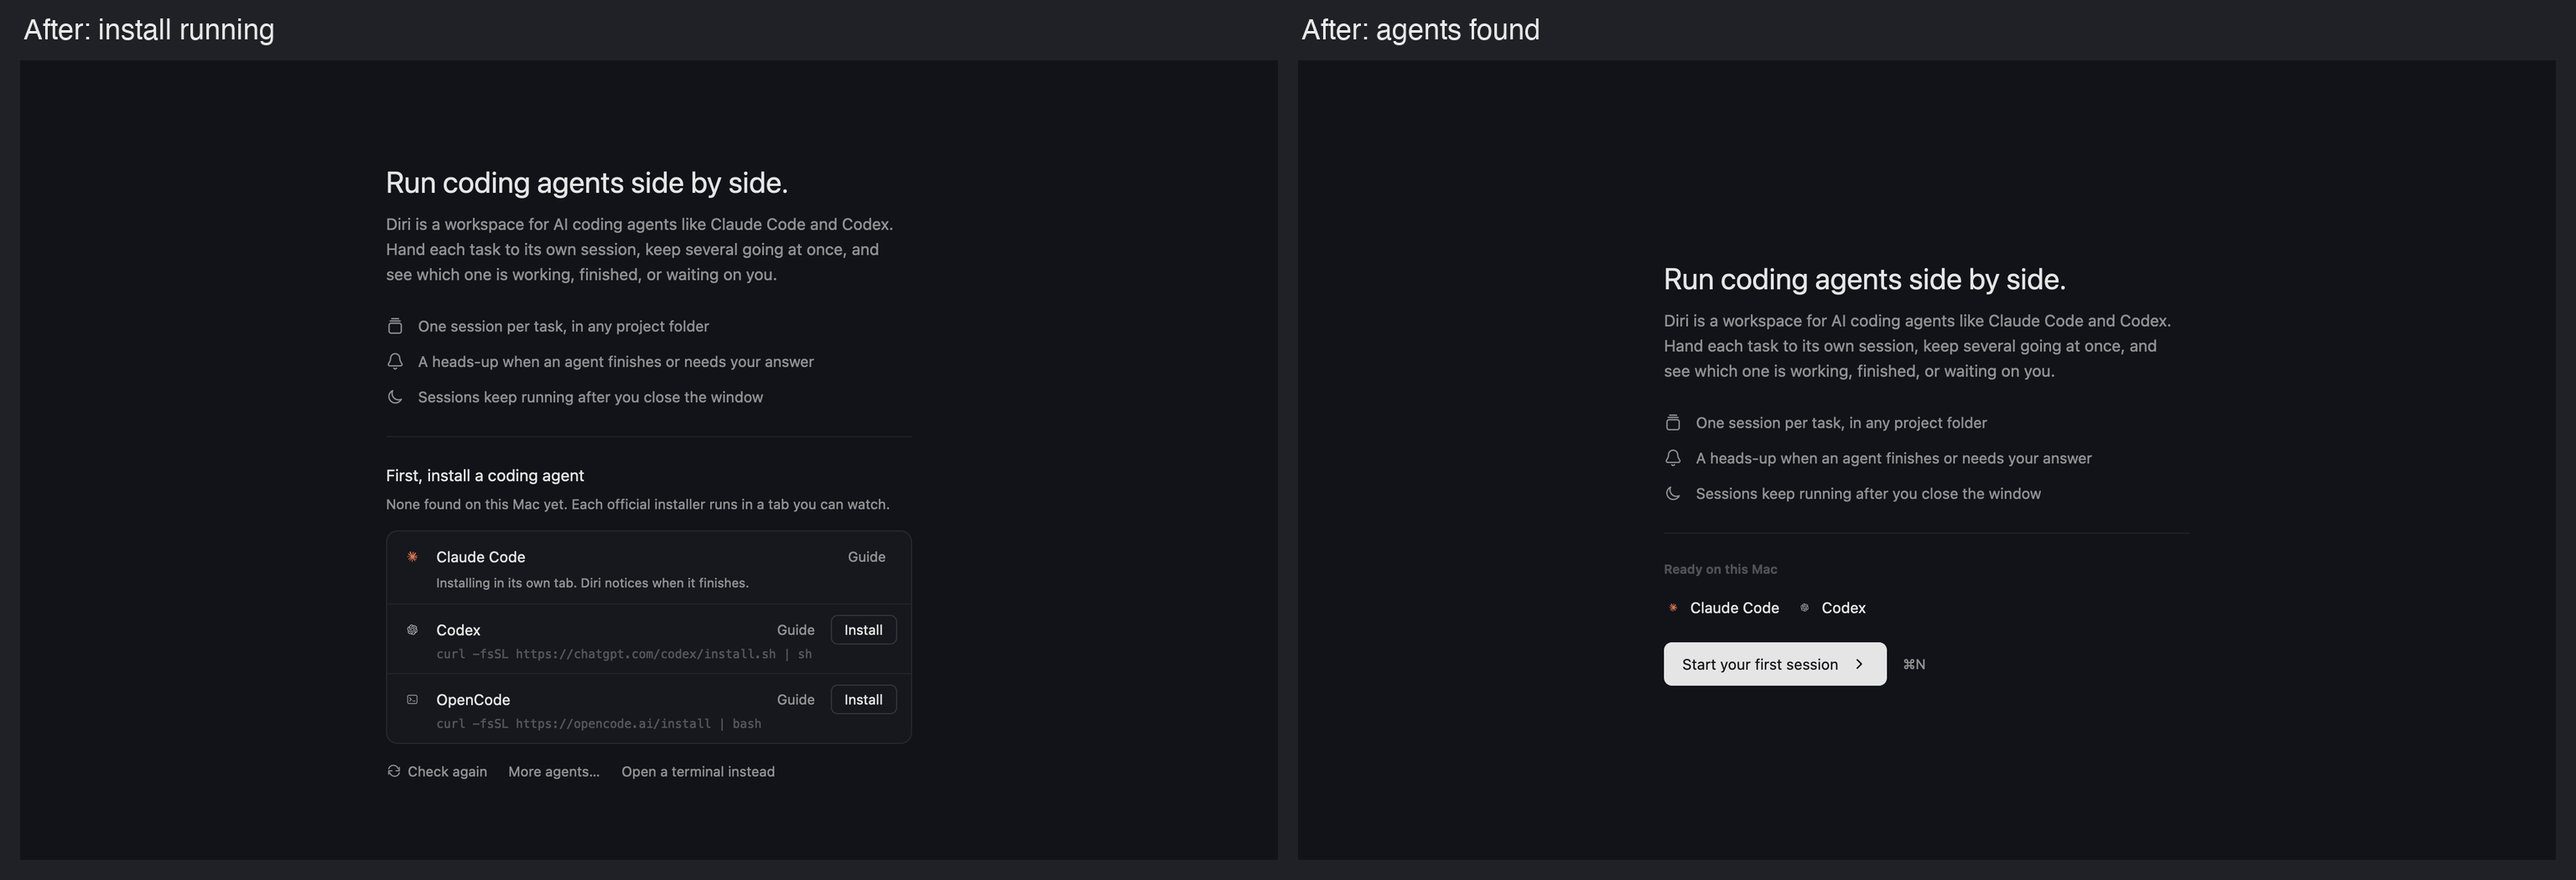
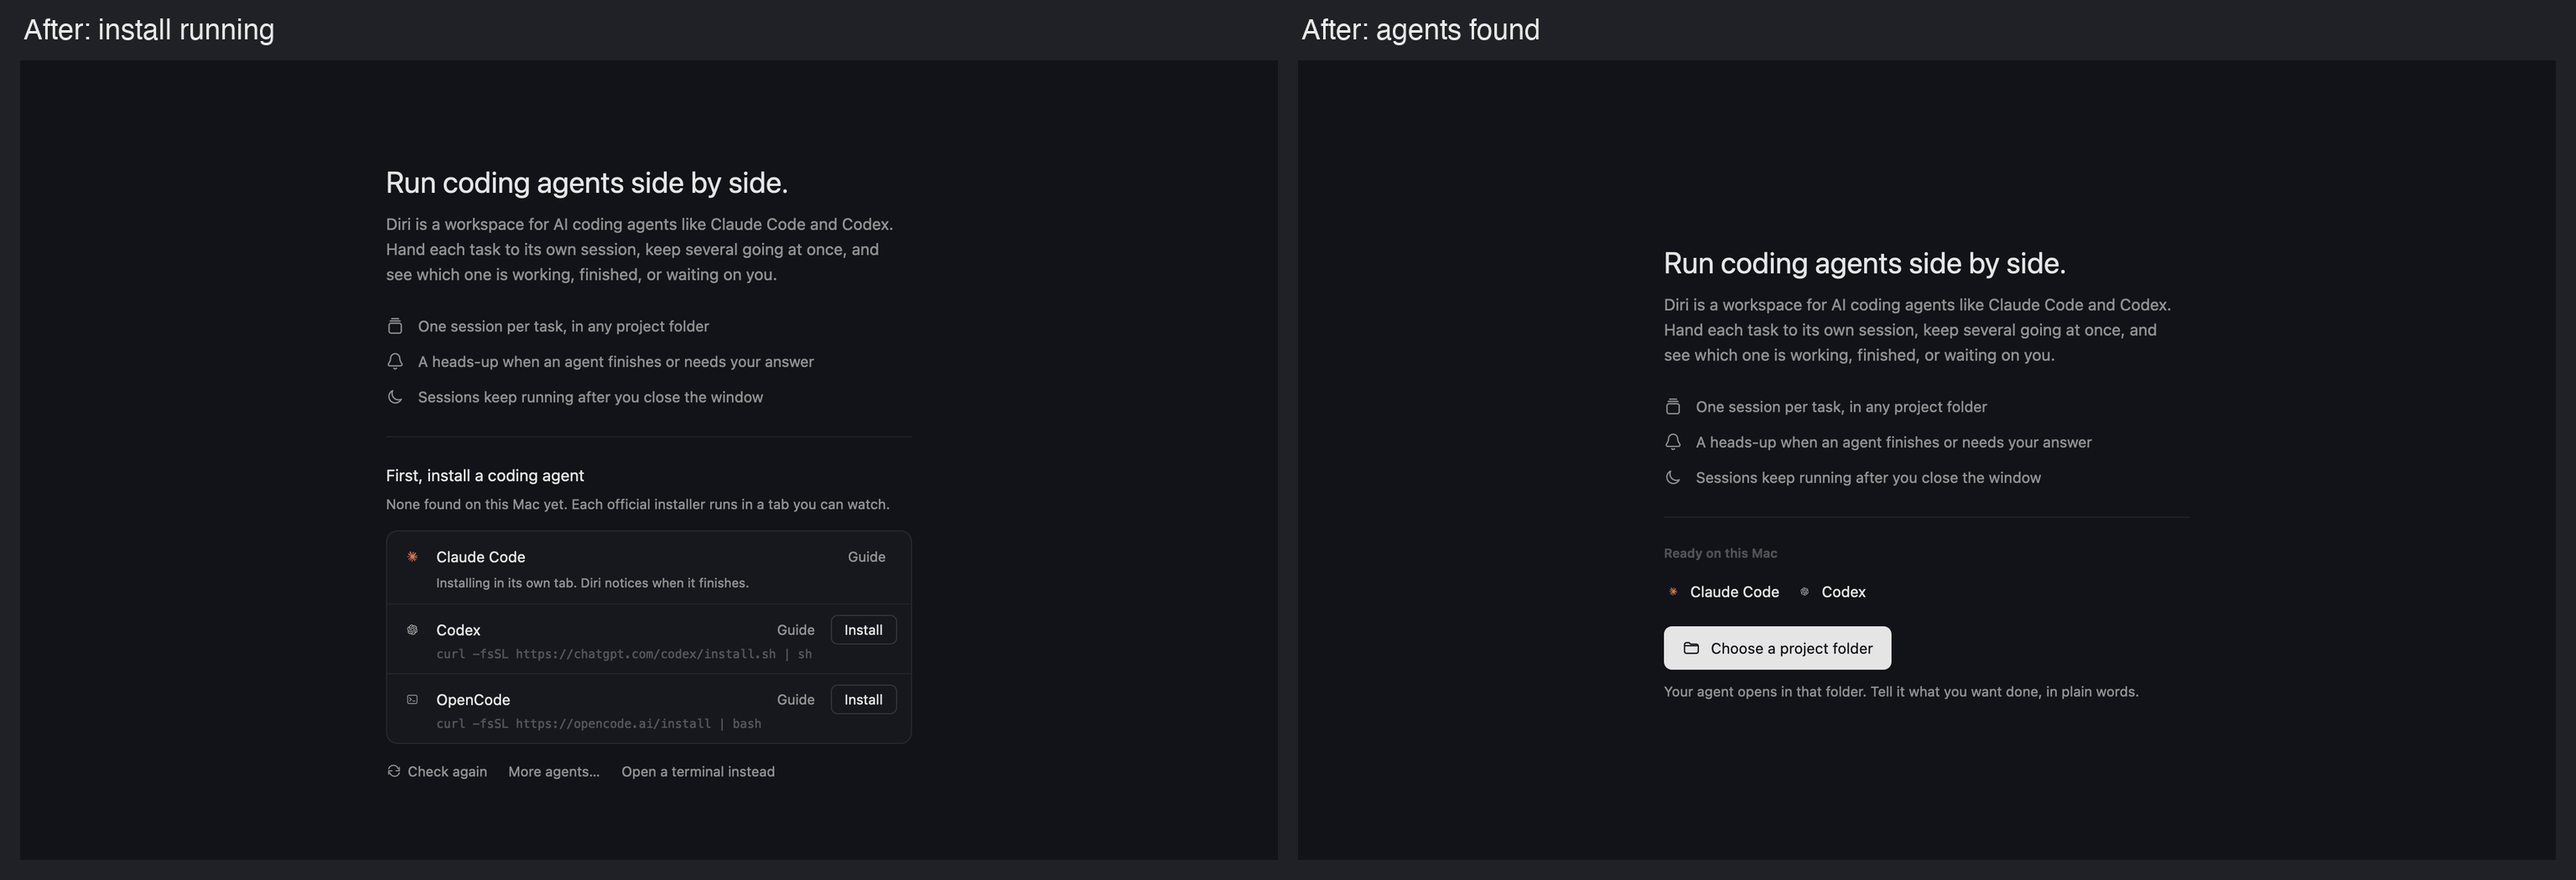
Start the first session without the launcher
The welcome and the resting page sent every start through the Cmd-N
launcher, which composes a task and injects it into the agent. The first
session should not depend on that. "Choose a project folder" now opens the
system folder picker and launches the default agent there, the same direct
launch as the New Agent shortcut, and the agent's own prompt takes the task.
The resting page leads with New session (Cmd-T) and "Open a terminal
instead" opens a terminal rather than the launcher's Terminal mode.

Changed region(s): [[0.625, 0.2743, 0.8438, 0.4267], [0.6562, 0.4571, 0.8125, 0.579], [0.625, 0.6095, 0.8125, 0.7924]]

diff --git a/diri/crates/diri-app/src/empty_workbench.rs b/diri/crates/diri-app/src/empty_workbench.rs
@@ -5,6 +5,10 @@
 //! "pick a coding agent installed on your computer" strands them, so the page
 //! reads detection facts and leads with whichever step is actually next:
 //! install an agent, or start a session.
+//!
+//! Starting is direct: choose a folder and the default agent opens in it, the
+//! same launch as the New Agent shortcut. The agent's own prompt is where the
+//! task gets typed, so nothing here composes or injects one.
 
 use std::rc::Rc;
 
@@ -15,7 +19,9 @@ use gpui::{Div, FontWeight, IntoElement, Role, div, prelude::*, px};
 use crate::agent_setup::{
     ActionHandler, AgentSetupState, InstallHandler, quiet_link, ready_line, setup_list,
 };
-use crate::commands::{CommandId, FocusSidebar, OpenLauncher, ShowAgentSettings, command};
+use crate::commands::{
+    CommandId, FocusSidebar, NewDefaultSession, NewTerminal, ShowAgentSettings, command,
+};
 use crate::icons::sf_symbol;
 
 pub(crate) struct EmptyWorkbench {
@@ -29,6 +35,8 @@ pub(crate) struct EmptyWorkbench {
 pub(crate) struct EmptyWorkbenchActions {
     pub install: InstallHandler,
     pub check_again: ActionHandler,
+    /// Pick a project folder, then open the default agent there.
+    pub start_in_folder: ActionHandler,
 }
 
 pub(crate) fn render(
@@ -37,7 +45,7 @@ pub(crate) fn render(
     colors: SemanticColors,
 ) -> impl IntoElement {
     let column = if state.has_sessions {
-        resting(colors)
+        resting(&actions, colors)
     } else {
         welcome(&state, &actions, colors)
     };
@@ -180,15 +188,11 @@ fn agents_section(
                 format!("Looking for coding agents on {machine}…"),
                 colors,
             ))
-            .child(start_button("Start a session", true, colors)),
+            .child(choose_folder(actions, colors)),
         AgentSetupState::Ready(ready) => section
             .child(eyebrow(format!("Ready on {machine}"), colors))
             .child(ready_line(ready, colors))
-            .child(
-                div()
-                    .pt(px(6.0))
-                    .child(start_button("Start your first session", true, colors)),
-            ),
+            .child(div().pt(px(6.0)).child(choose_folder(actions, colors))),
         AgentSetupState::Missing(candidates) => {
             let check_again = Rc::clone(&actions.check_again);
             section
@@ -251,14 +255,21 @@ fn agents_section(
                             "Open a terminal instead",
                             None,
                             colors,
-                            |window, cx| window.dispatch_action(Box::new(OpenLauncher), cx),
+                            |window, cx| window.dispatch_action(Box::new(NewTerminal), cx),
                         )),
                 )
         }
     }
 }
 
-fn start_button(label: &'static str, show_shortcut: bool, colors: SemanticColors) -> Div {
+/// The filled button a page leads with, and the shortcut that does the same.
+fn start_button(
+    label: &'static str,
+    symbol: &'static str,
+    shortcut: Option<CommandId>,
+    colors: SemanticColors,
+    on_click: ActionHandler,
+) -> Div {
     div()
         .flex()
         .items_center()
@@ -278,54 +289,88 @@ fn start_button(label: &'static str, show_shortcut: bool, colors: SemanticColors
                 .font_weight(FontWeight::MEDIUM)
                 .flex()
                 .items_center()
-                .gap(px(10.0))
+                .gap(px(9.0))
                 .cursor_pointer()
                 .hover(|button| button.opacity(0.88))
                 .active(|button| button.opacity(0.74))
-                .on_click(|_, window, cx| {
-                    window.dispatch_action(Box::new(OpenLauncher), cx);
-                })
-                .child(label)
-                .child(sf_symbol("chevron.right", 12.0, colors.background)),
+                .on_click(move |_, window, cx| on_click(window, cx))
+                .child(sf_symbol(symbol, 14.0, colors.background))
+                .child(label),
         )
-        .when(show_shortcut, |row| {
-            row.child(
-                div()
-                    .text_size(px(12.0))
-                    .text_color(colors.secondary)
-                    .child(
-                        command(CommandId::OpenLauncher)
-                            .shortcut_label()
-                            .unwrap_or_default(),
-                    ),
-            )
-        })
+        .when_some(
+            shortcut.and_then(|id| command(id).shortcut_label()),
+            |row, shortcut| {
+                row.child(
+                    div()
+                        .text_size(px(12.0))
+                        .text_color(colors.secondary)
+                        .child(shortcut),
+                )
+            },
+        )
+}
+
+/// Choosing the folder is the whole first step: the agent opens there.
+fn choose_folder(actions: &EmptyWorkbenchActions, colors: SemanticColors) -> Div {
+    div()
+        .flex()
+        .flex_col()
+        .gap(px(10.0))
+        .child(start_button(
+            "Choose a project folder",
+            "folder",
+            None,
+            colors,
+            Rc::clone(&actions.start_in_folder),
+        ))
+        .child(
+            div()
+                .text_size(px(12.0))
+                .line_height(px(18.0))
+                .text_color(colors.secondary)
+                .child(
+                    "Your agent opens in that folder. Tell it what you want done, in plain words.",
+                ),
+        )
 }
 
 /// Sessions exist but none is open in this pane.
-fn resting(colors: SemanticColors) -> Div {
+fn resting(actions: &EmptyWorkbenchActions, colors: SemanticColors) -> Div {
+    let start_in_folder = Rc::clone(&actions.start_in_folder);
     column()
         .gap(px(24.0))
         .child(mark())
         .child(headline(
             "Ready for your next task?",
-            "Pick up a session from the sidebar, or start something new.",
+            "Pick up a session from the sidebar, or start a new one.",
             colors,
         ))
-        .child(start_button("Start a session", true, colors))
+        .child(start_button(
+            "New session",
+            "plus",
+            Some(CommandId::NewDefaultSession),
+            colors,
+            Rc::new(|window, cx| window.dispatch_action(Box::new(NewDefaultSession), cx)),
+        ))
         .child(
             div()
-                .id("empty-browse-sessions")
-                .role(Role::Button)
-                .aria_label("Show sessions")
-                .py(px(6.0))
-                .text_size(px(13.0))
-                .text_color(colors.secondary)
-                .cursor_pointer()
-                .hover(move |button| button.text_color(colors.primary))
-                .on_click(|_, window, cx| {
-                    window.dispatch_action(Box::new(FocusSidebar), cx);
-                })
-                .child("Show sessions in the sidebar"),
+                .flex()
+                .flex_wrap()
+                .items_center()
+                .gap(px(18.0))
+                .child(quiet_link(
+                    "empty-start-in-folder",
+                    "Start in another folder…",
+                    None,
+                    colors,
+                    move |window, cx| start_in_folder(window, cx),
+                ))
+                .child(quiet_link(
+                    "empty-browse-sessions",
+                    "Show sessions in the sidebar",
+                    None,
+                    colors,
+                    |window, cx| window.dispatch_action(Box::new(FocusSidebar), cx),
+                )),
         )
 }

diff --git a/diri/crates/diri-app/src/terminal_pane.rs b/diri/crates/diri-app/src/terminal_pane.rs
@@ -1759,11 +1759,52 @@ impl TerminalPane {
                 .request_agent_catalog(None, true);
             cx.refresh_windows();
         });
+        // A direct launch, the same one the New Agent shortcut performs: the
+        // agent's own prompt takes the task, so there is nothing to compose
+        // or inject on the way in.
+        let canonical = Arc::clone(&self.runtime.store);
+        let window_store = self.window_store.clone();
+        let start_in_folder: crate::agent_setup::ActionHandler = Rc::new(move |_, cx| {
+            let paths = cx.prompt_for_paths(gpui::PathPromptOptions {
+                files: false,
+                directories: true,
+                multiple: false,
+                prompt: Some("Start Here".into()),
+            });
+            let canonical = Arc::clone(&canonical);
+            let window_store = window_store.clone();
+            cx.spawn(async move |cx| {
+                let Ok(Ok(Some(mut paths))) = paths.await else {
+                    return;
+                };
+                let Some(path) = paths.pop() else {
+                    return;
+                };
+                let options = crate::store::SpawnOptions {
+                    cwd: Some(path.to_string_lossy().into_owned()),
+                    ..crate::store::SpawnOptions::default()
+                };
+                if let Some(window_store) = &window_store {
+                    window_store
+                        .write()
+                        .expect("window navigation lock poisoned")
+                        .spawn_default(options);
+                } else {
+                    canonical
+                        .write()
+                        .expect("session store lock poisoned")
+                        .spawn_default(options);
+                }
+                let _ = cx.update(|cx| cx.refresh_windows());
+            })
+            .detach();
+        });
         crate::empty_workbench::render(
             state,
             crate::empty_workbench::EmptyWorkbenchActions {
                 install,
                 check_again,
+                start_in_folder,
             },
             colors,
         )

diff --git a/diri/crates/diri-app/src/launcher.rs b/diri/crates/diri-app/src/launcher.rs
@@ -5349,6 +5349,7 @@ mod tests {
                         crate::empty_workbench::EmptyWorkbenchActions {
                             install: std::rc::Rc::new(|_, _, _| {}),
                             check_again: std::rc::Rc::new(|_, _| {}),
+                            start_in_folder: std::rc::Rc::new(|_, _| {}),
                         },
                         self.colors,
                     ))
